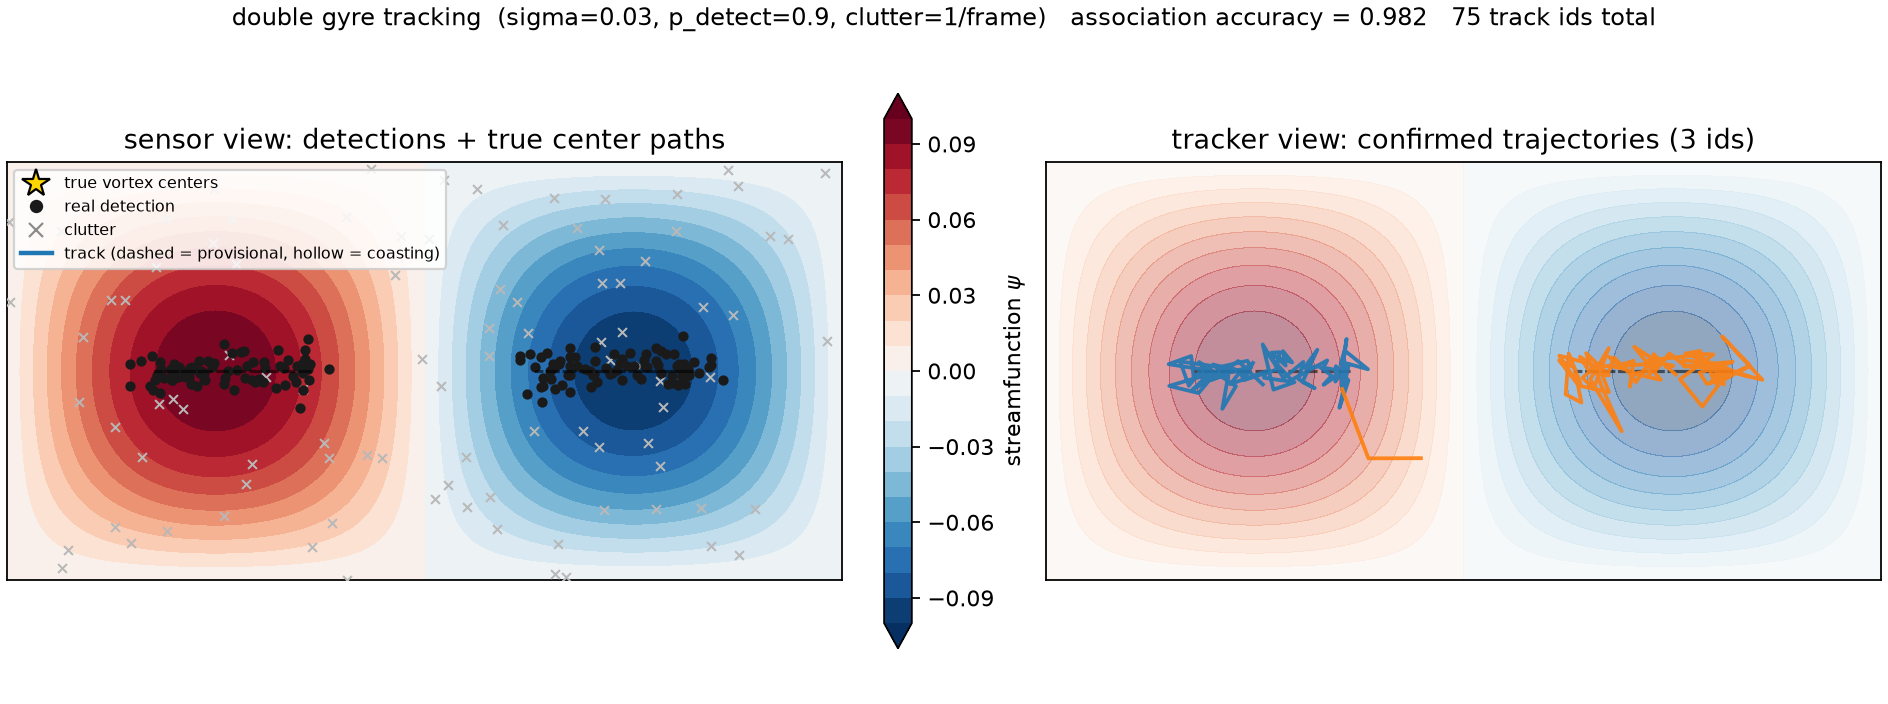
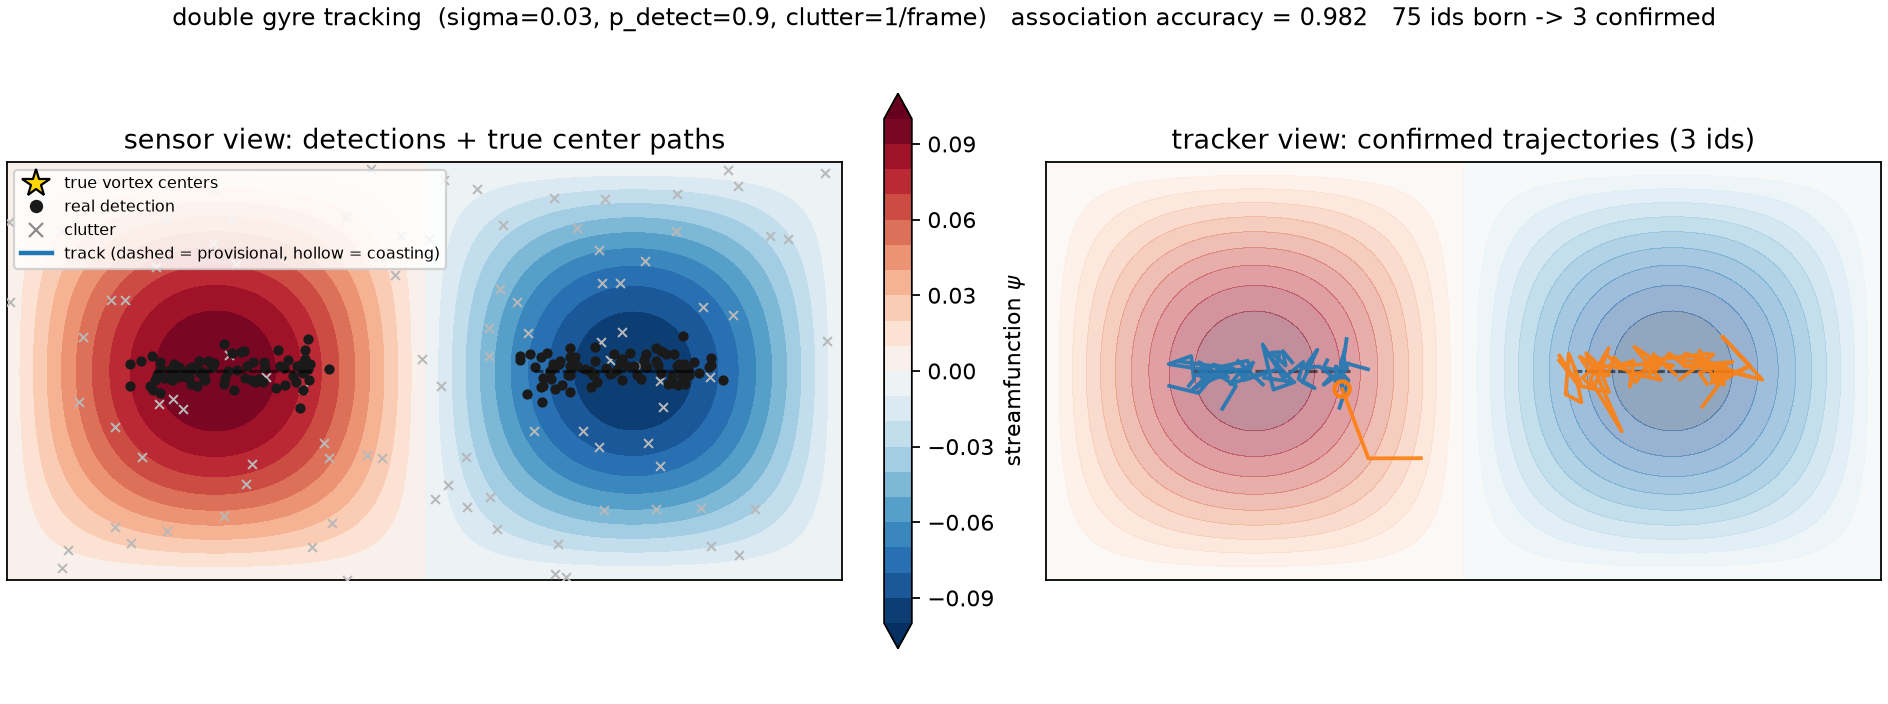
viz: static overview draws matched trajectory only, ends coasting tracks hollow; title births->confirmed

Changed region(s): [[0.0938, 0.0, 0.9062, 0.0625], [0.6875, 0.5, 0.7188, 0.5625], [0.625, 0.5312, 0.6562, 0.5625]]

diff --git a/src/tracking/viz.py b/src/tracking/viz.py
@@ -147,13 +147,24 @@ def overview(gyre, states: list, path, title: str = "") -> None:
                 lw=1.4, alpha=0.55, zorder=5)
     full: dict = {}
     for s in states:
-        for tid, (pos, *_rest) in s["snapshot"].items():
+        for tid, (pos, coasting, _prov) in s["snapshot"].items():
             if tid in confirmed:
-                full.setdefault(tid, []).append(np.asarray(pos))
-    for tid, pts in full.items():
-        pts = np.asarray(pts)
-        ax.plot(pts[:, 0], pts[:, 1], color=track_color(tid), lw=1.7,
+                full.setdefault(tid, []).append(
+                    (s["k"], None if coasting else np.asarray(pos)))
+    for tid, seq in full.items():
+        seq.sort(key=lambda kv: kv[0])
+        xs = np.array([np.nan if p is None else p[0] for _k, p in seq])
+        ys = np.array([np.nan if p is None else p[1] for _k, p in seq])
+        ax.plot(xs, ys, color=track_color(tid), lw=1.7,
                 alpha=0.9, zorder=6)
+        # A track that died while coasting: mark its last *measured* position
+        # hollow, so the trajectory ends where the data ended, not where a
+        # prediction drifted.
+        finite = np.flatnonzero(~np.isnan(xs))
+        if finite.size and seq[-1][1] is None:
+            last = seq[finite[-1]][1]
+            ax.scatter([last[0]], [last[1]], s=48, facecolor="none",
+                       edgecolor=track_color(tid), linewidths=1.8, zorder=6)
     n_conf = len(confirmed)
     ax.set_title(f"tracker view: confirmed trajectories ({n_conf} ids)")
 

diff --git a/experiments/make_viz.py b/experiments/make_viz.py
@@ -64,9 +64,11 @@ def main():
     gyre, states, gt, matches = build_states()
     acc = metrics.association_accuracy(gt, matches)
     n_ids = len({tid for s in states for tid in s["snapshot"]})
+    n_conf = len({tid for s in states
+                  for tid, (_p, _c, prov) in s["snapshot"].items() if not prov})
     title = (f"double gyre tracking  (sigma={SIGMA}, p_detect={P_DETECT}, "
              f"clutter={CLUTTER:.0f}/frame)   association accuracy = {acc:.3f}"
-             f"   {n_ids} track ids total")
+             f"   {n_ids} ids born -> {n_conf} confirmed")
 
     out = pathlib.Path(__file__).resolve().parents[1] / "figures"
     out.mkdir(exist_ok=True)
